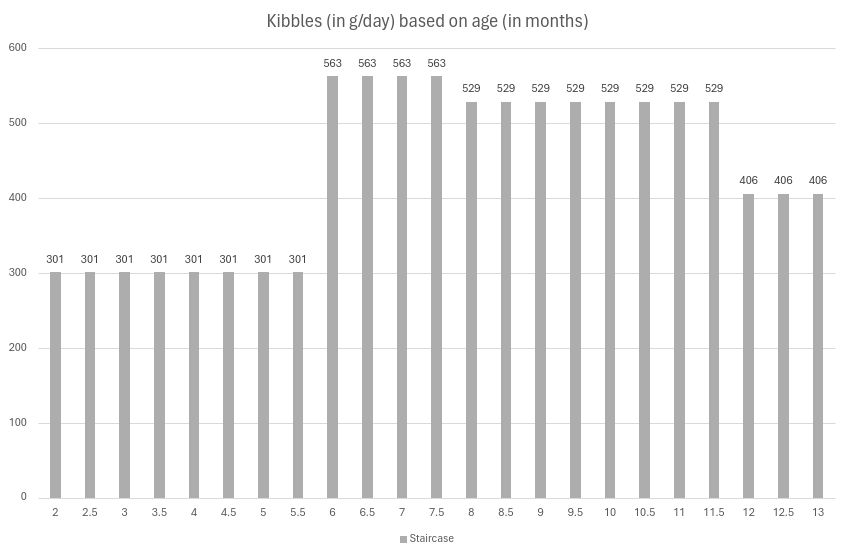
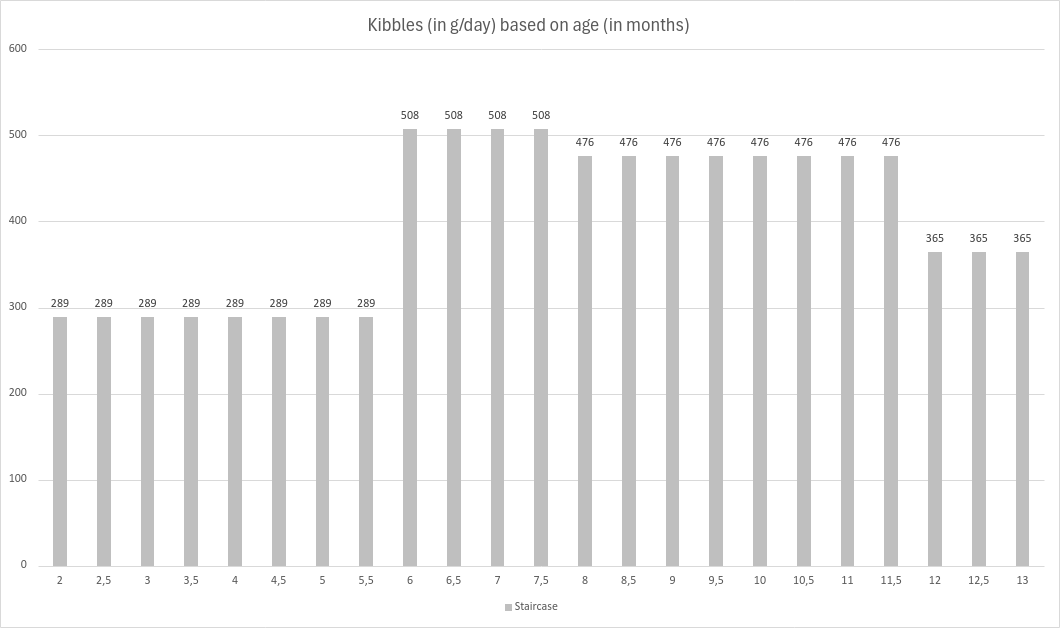
Added EN version of croquettes notes

diff --git a/content/notes/croquettes.en.md b/content/notes/croquettes.en.md
@@ -1,12 +1,69 @@
 ---
-title: "Data science for dog"
-slug: "data-science-for-dog"
-date: 2024-04-02
-draft: true
+title: "Data Science for Dogs"
+slug: "data-science-for-dogs"
+date: 2024-04-03
+draft: false
 toc: false
 images:
 tags:
   - data science
   - dog
-  - over-engineering
+  - over engineering
 ---
+
+After a youth marked by a dubious taste for useless exactitudes, I believed that the engineering degree obtained at the peak of my intellectual glory almost 20 years ago would grant me enough humility and common sense to resist any scientific vanity until the end of my days. The sad reality is that a bag of dog food was enough to derail me.
+
+## Dog Food and Linear Regression
+It all started when our veterinarian informed us that my daughter's puppy would weigh around 35kg as an adult. However, the puppy's food bag only indicates values for quadrupeds of 30kg or 40kg:
+
+![Dog Food Table](/img/notes/croquettes-table.png)
+
+As expected in such cases, the QR code displayed next to the table to access online help leads to a very nice error page:
+
+![404 Error](/img/notes/croquettes-404-fr.png)
+
+Left to my own devices, I had no choice but to carefully examine the values in the table and manually interpolate the amount of food needed daily for the puppy's proper growth:
+
+| Age (months) | 30 kg | 35 kg | 40 kg |
+|:------------:|:-----:|:-----:|:-----:|
+|      2       | 277 g | 289 g | 301 g |
+|      6       | 454 g | 508 g | 563 g |
+|      8       | 423 g | 476 g | 529 g |
+|     12       | 324 g | 365 g | 406 g |
+
+That's where I obviously fell off my ergonomic chair.
+
+![Staircase](/img/notes/croquettes-staircase-en.png)
+
+## Watch Your Step[^0]
+The puppy will be six months old on May 25th. How can its digestive system handle 289 grams of food on the 24th and 508 grams the next day? What anatomical miracle does the dog food producer anticipate on the night of the sixth month so that the poor creature can handle a +76% increase in its daily ration without spending the next day entirely in the cat's litter box[^2]?
+
+Another question: what's the point of reducing the quantity from 508 grams to 476 grams at eight months, after only 2 months on this diet? This 32-gram reduction represents only 6.7% of the total. This adjustment is suspiciously precise given the uncertainty surrounding the estimated weight of the adult dog[^4].
+
+Finally, if the dog food manufacturer deems it important to distinguish these 2 months at 6.7% more than the rest, why are there no intermediate steps between the second and sixth months? I would expect the needs of a five-month-old puppy to differ significantly from those of a two-month-old.
+
+Thus, firmly opposing the digestive suffering of the animals in my care, whose droppings I pick up under penalty of a fine, I had to once again dive into calculations to produce a smoother alternative to the stair-step diet:
+
+![Linear](/img/notes/croquettes-linear-en.png)
+
+Compared to the stair-step diet, the smooth diet feeds the puppy more until the sixth month and much less from the eighth month onwards, as shown in the diet profiles below:
+
+![Comparison](/img/notes/croquettes-integral-en.png)
+
+Choosing between the two diets is therefore not trivial at all. All of this makes me really want to call the dog food manufacturer to sort this out and probably get the head of their packaging manager[^5].
+
+## Update
+I finally found detailed data on the manufacturer's website[^6]. While the values don't exactly match the smoothed diet, they are close enough to convince me to continue using it.
+
+![Conclusion](/img/notes/croquettes-vs-royal-canin-en.png)
+
+I hope that dog owners are comfortable calculating smoothed intermediate values as I have done and do not blindly follow the values indicated on the packaging.
+
+If an employee of the brand reads this note, I encourage them to add intermediate data for months 3, 4, 5, and then 9, 10, 11 in the table on the back of the bag.
+
+[^0]: Source: [RSPCA](/doc/Safe_puppy_activities.pdf)
+[^2]: Because like any respectable animal lover, we also have a cat.
+[^3]: I sometimes feel like I am exactly what one would expect [from years of government training](https://www.youtube.com/watch?v=THe_hlNE3yI&t=321s).
+[^4]: For comparison, 6.7% &times; 35kg = 2.35kg. Our veterinarian's prediction is not that precise.
+[^5]: See the predicted constipation epidemic mentioned earlier.
+[^6]: Source: [Royal Canin](https://www.royalcanin.com/uk/dogs/products/retail-products/puppy---maxi-3006)

diff --git a/content/notes/croquettes.fr.md b/content/notes/croquettes.fr.md
@@ -10,7 +10,7 @@ tags:
   - chien
 ---
 
-Après une jeunesse gâchée par un goût douteux pour les exactitudes inutiles, j'ai longtemps cru que le diplôme d'ingénieur obtenu au sommet de ma gloire intellectuelle il y a presque 20 me confèrerait suffisamment d'humilité et de bon sens pour résister à toute vanité scientifique jusqu'à la fin de mes jours. La triste réalité est qu'un sac de croquettes a suffi à me faire replonger.
+Après une jeunesse marquée par un goût douteux pour les exactitudes inutiles, j'ai cru que le diplôme d'ingénieur obtenu au sommet de ma gloire intellectuelle il y a presque 20 me confèrerait suffisamment d'humilité et de bon sens pour résister à toute vanité scientifique jusqu'à la fin de mes jours. La triste réalité est qu'un sac de croquettes a suffi à me faire dérailler.
 
 ## Croquettes et régression linéaire
 Tout a commencé lorsque notre vétérinaire nous a annoncé que le toutou de ma fille ferait environ 35kg à l'âge adulte. Or, le sac de croquettes dudit toutou n'indique les valeurs que pour les quadrupèdes de 30kg ou 40kg:
